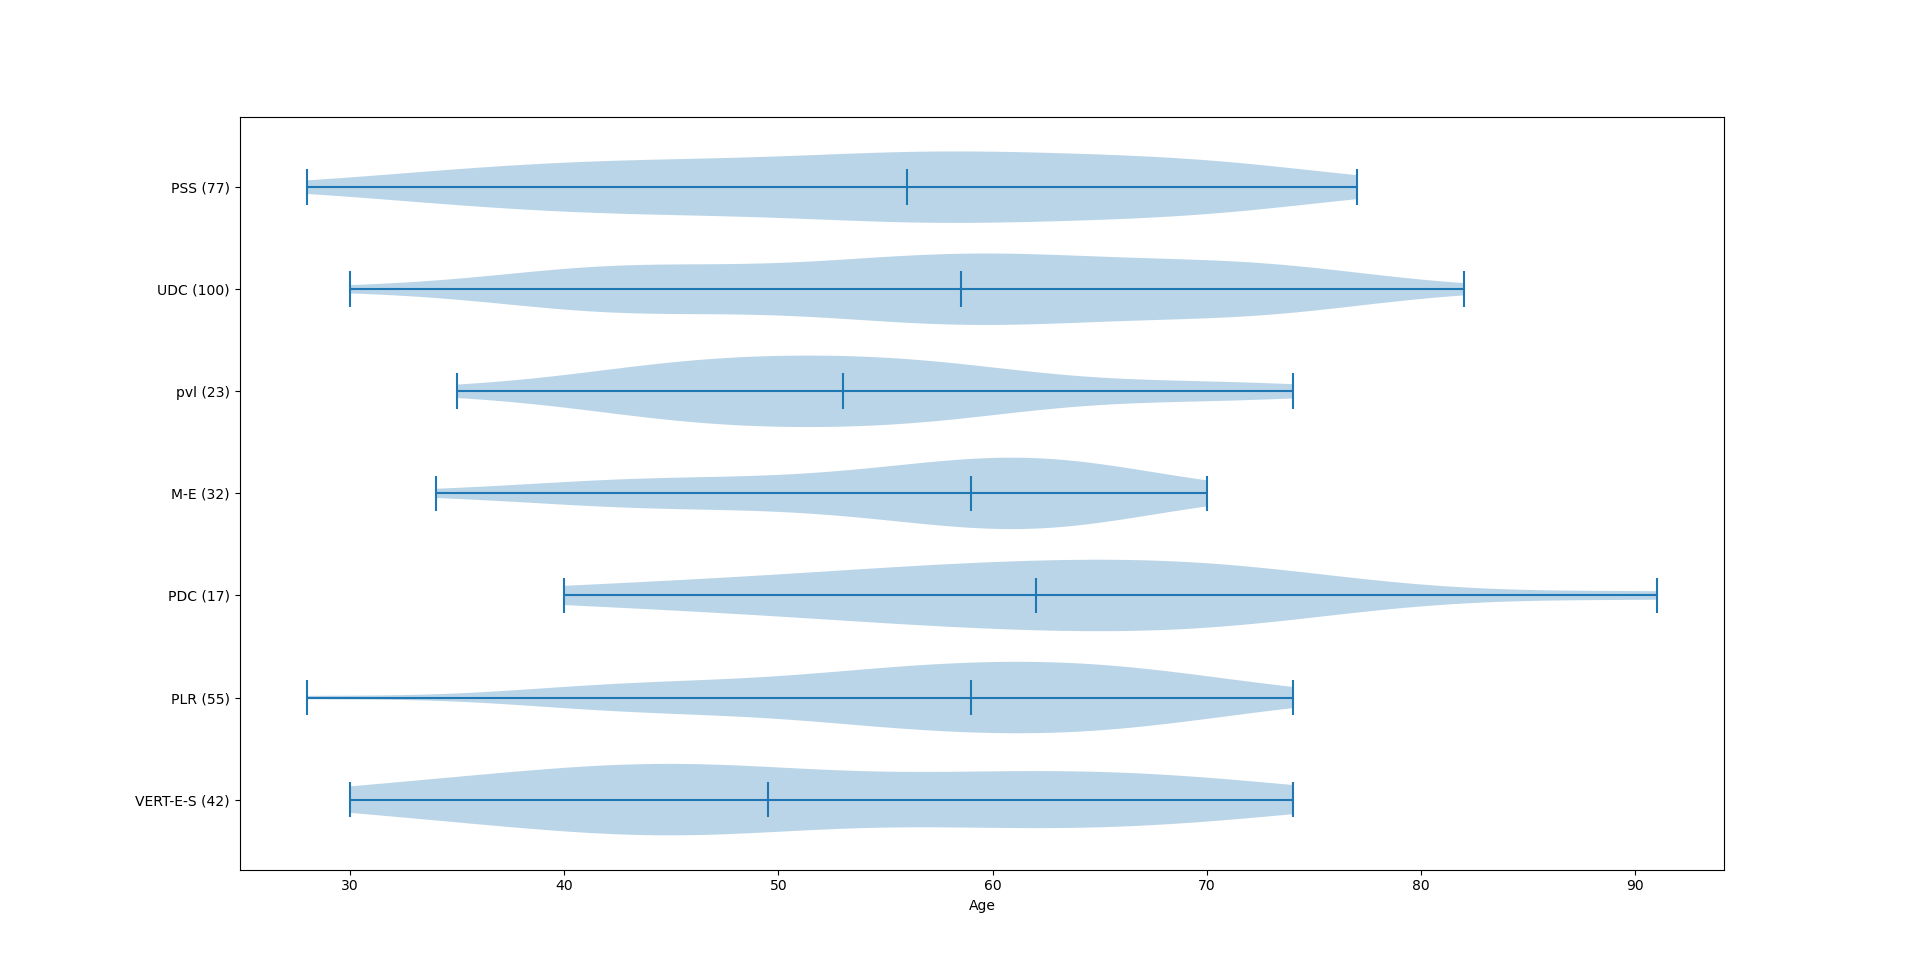
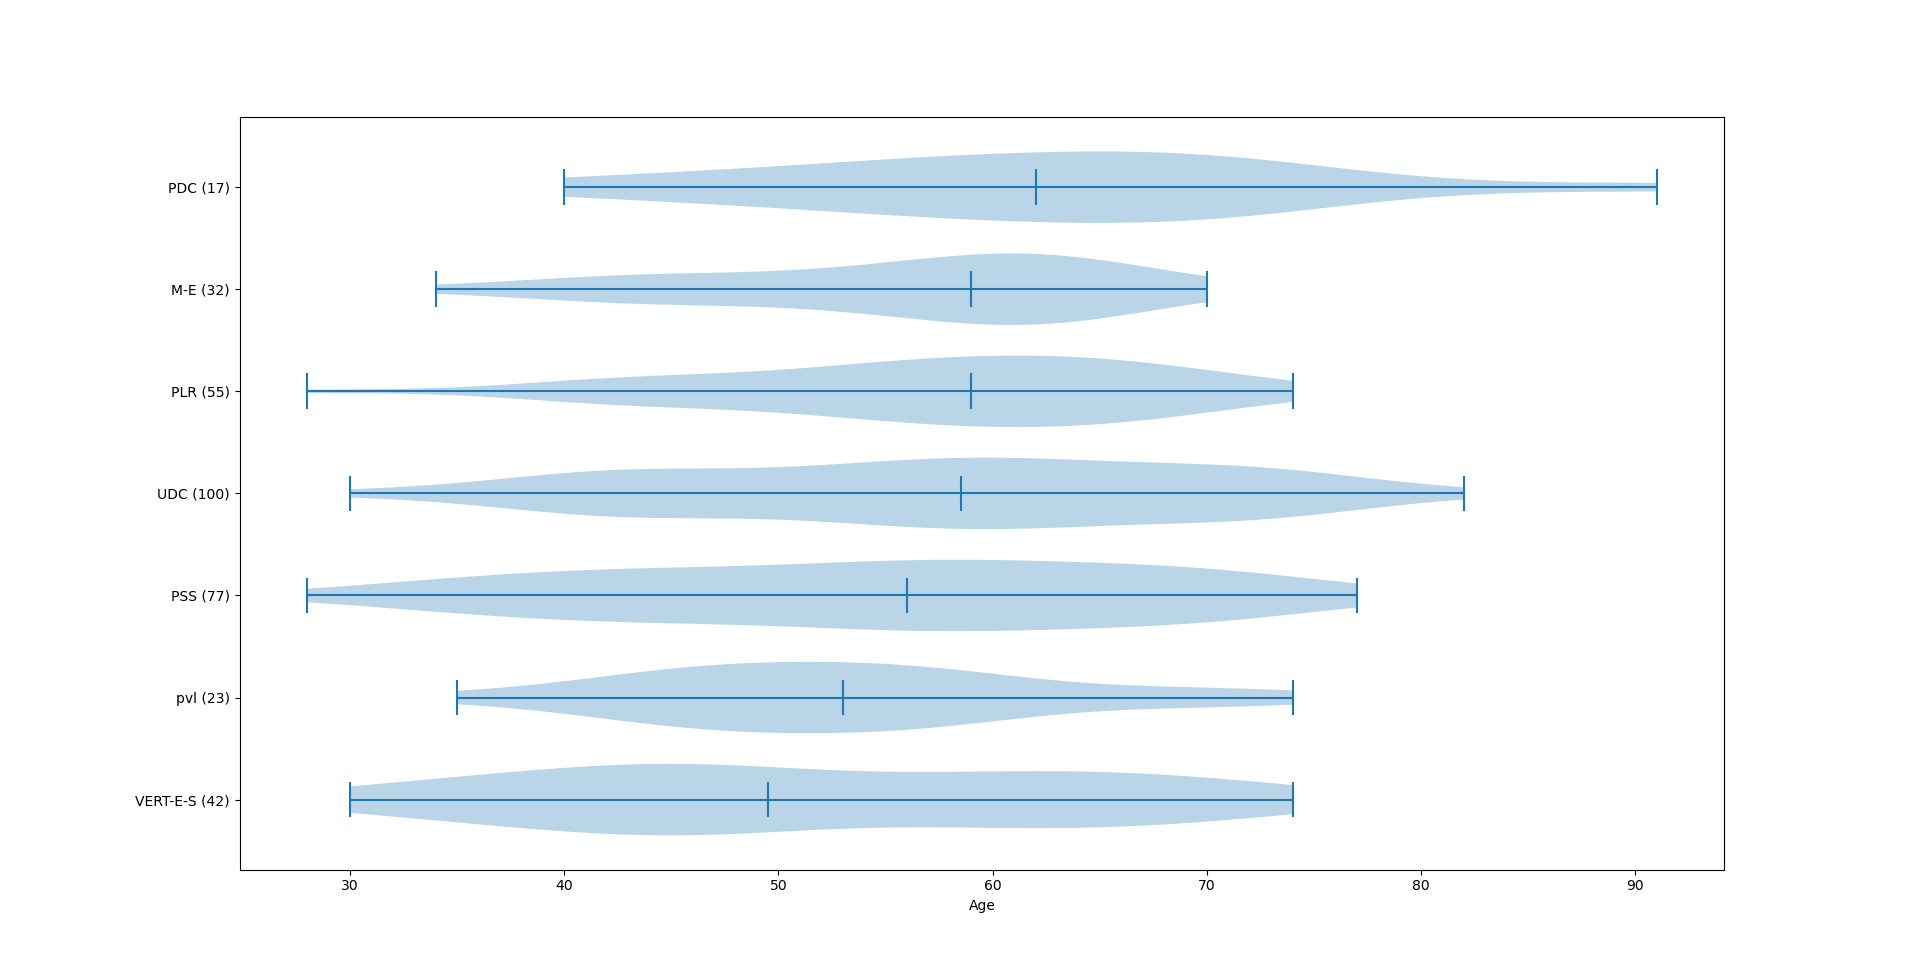
Sort by median age

diff --git a/08_party_age_comparison/comparison.py b/08_party_age_comparison/comparison.py
@@ -3,10 +3,17 @@ import matplotlib.pyplot as plt
 import numpy as np
 
 parlementaires = pd.read_csv(f'../../parlement/donnees/parlementaires.csv', index_col=0).T
-parties = set(parlementaires['party'])
+parties = list(set(parlementaires['party']))
 
 ages = []
 data_parties = []
+
+def median(l):
+    l = sorted(l)
+    if len(l) % 2 == 1:
+        return l[len(l) // 2]
+    else:
+        return (l[len(l) // 2] + l[len(l) // 2 + 1]) // 2
 
 for party in parties:
     parlementaires_party = parlementaires[parlementaires['party'] == party]
@@ -18,6 +25,12 @@ for party in parties:
 
     ages.append(list(parlementaires_party['age']))
     data_parties.append(f'{party} ({len(parlementaires_party)})')
+
+parties_ages = list(zip(ages, data_parties))
+parties_ages.sort(key=lambda t: median(t[0]))
+
+ages = [pa[0] for pa in parties_ages]
+data_parties = [pa[1] for pa in parties_ages]
 
 fig, ax = plt.subplots()
 #ax.violinplot(tuple(ages), vert=False, widths=.7, quantiles=[[.25, .5, .75]]*len(ages))
